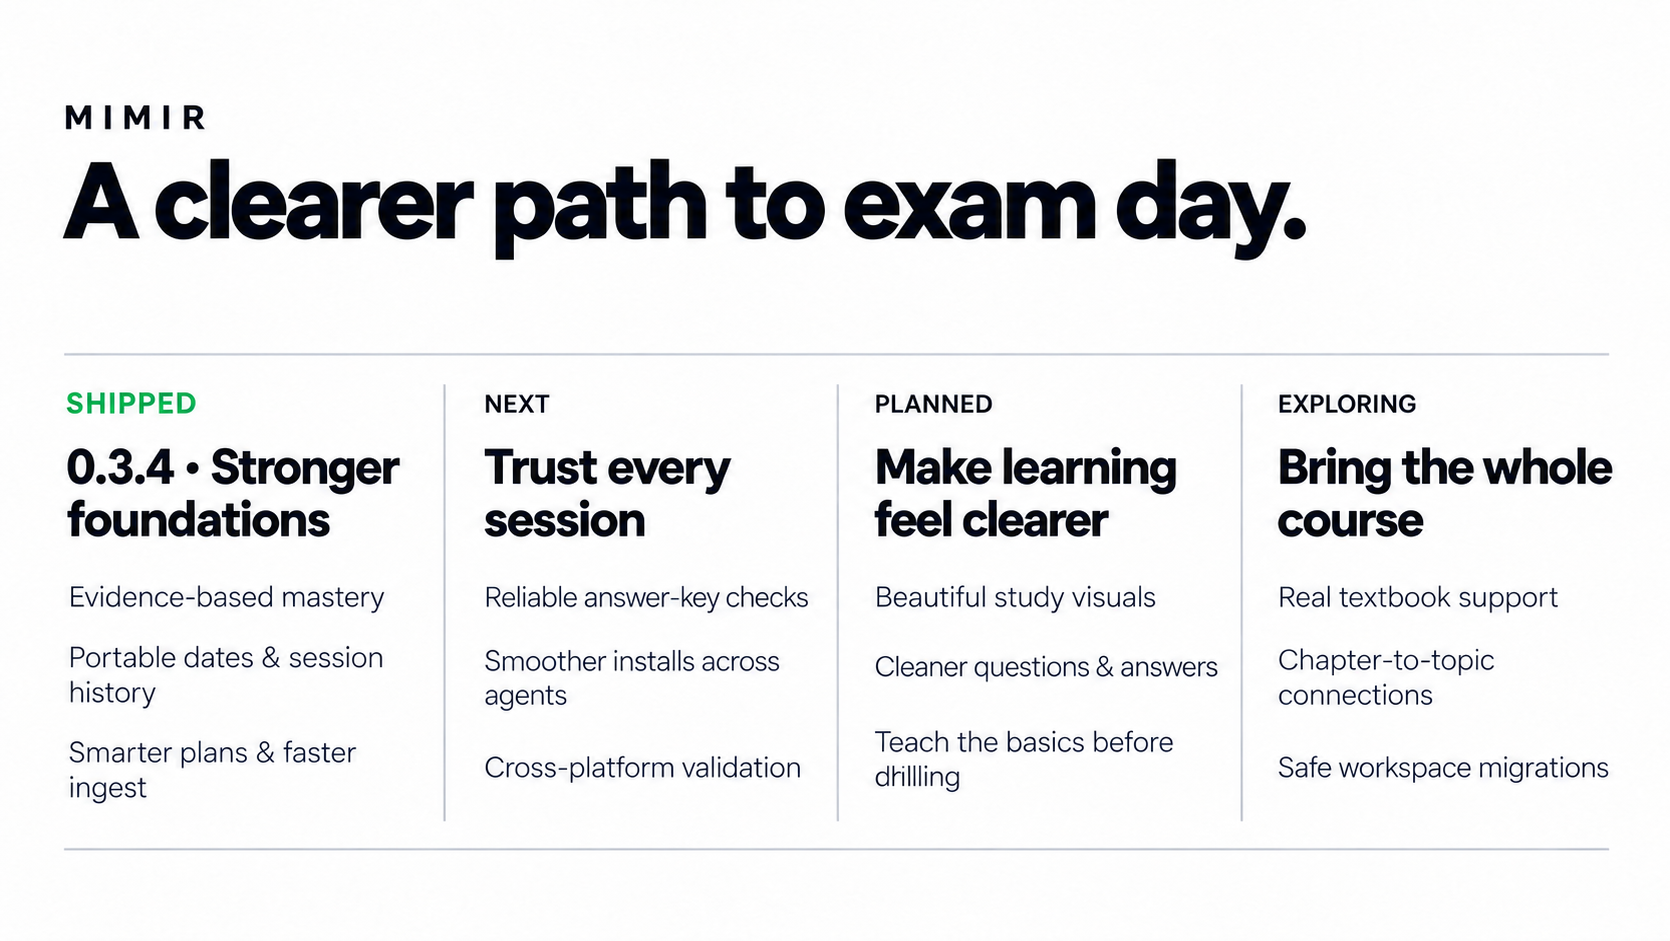
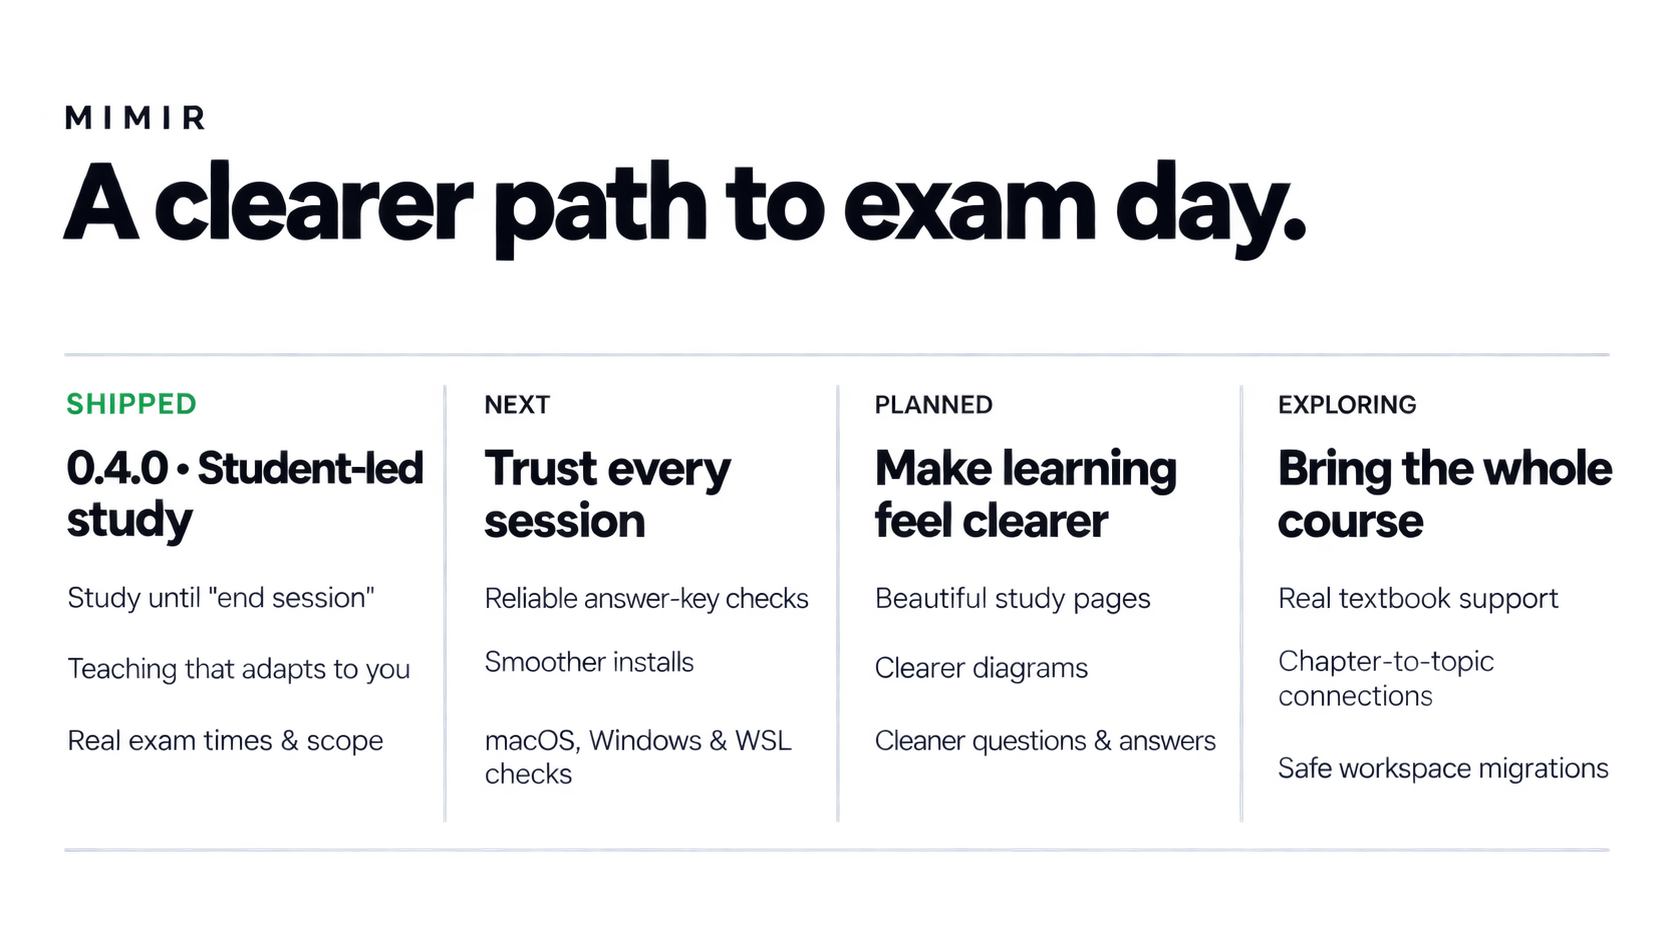
Update README roadmap image for 0.4.0 (#73)

diff --git a/README.md b/README.md
@@ -128,7 +128,7 @@ If that app doesn't expand slash commands either, run `mimir-setup` and `mimir-i
 
 ## Roadmap
 
-[![Mimir roadmap: shipped foundations, next reliability improvements, planned learning experience improvements, and future textbook support and migrations](assets/roadmap/mimir-roadmap-readme.png)](assets/roadmap/mimir-roadmap-readme.png)
+[![Mimir roadmap: shipped student-led study, adaptive teaching, and exam times and scope; next session reliability; planned clearer learning visuals and formatting; exploring textbook support, chapter connections, and safe migrations](assets/roadmap/mimir-roadmap-readme.png)](assets/roadmap/mimir-roadmap-readme.png)
 
 Priorities come from hands-on testing and may change. There are no promised dates. Until 1.0, expect changes to how sessions run and to the folder layout. What shipped in 0.4.0 is in the [changelog](CHANGELOG.md).
 
